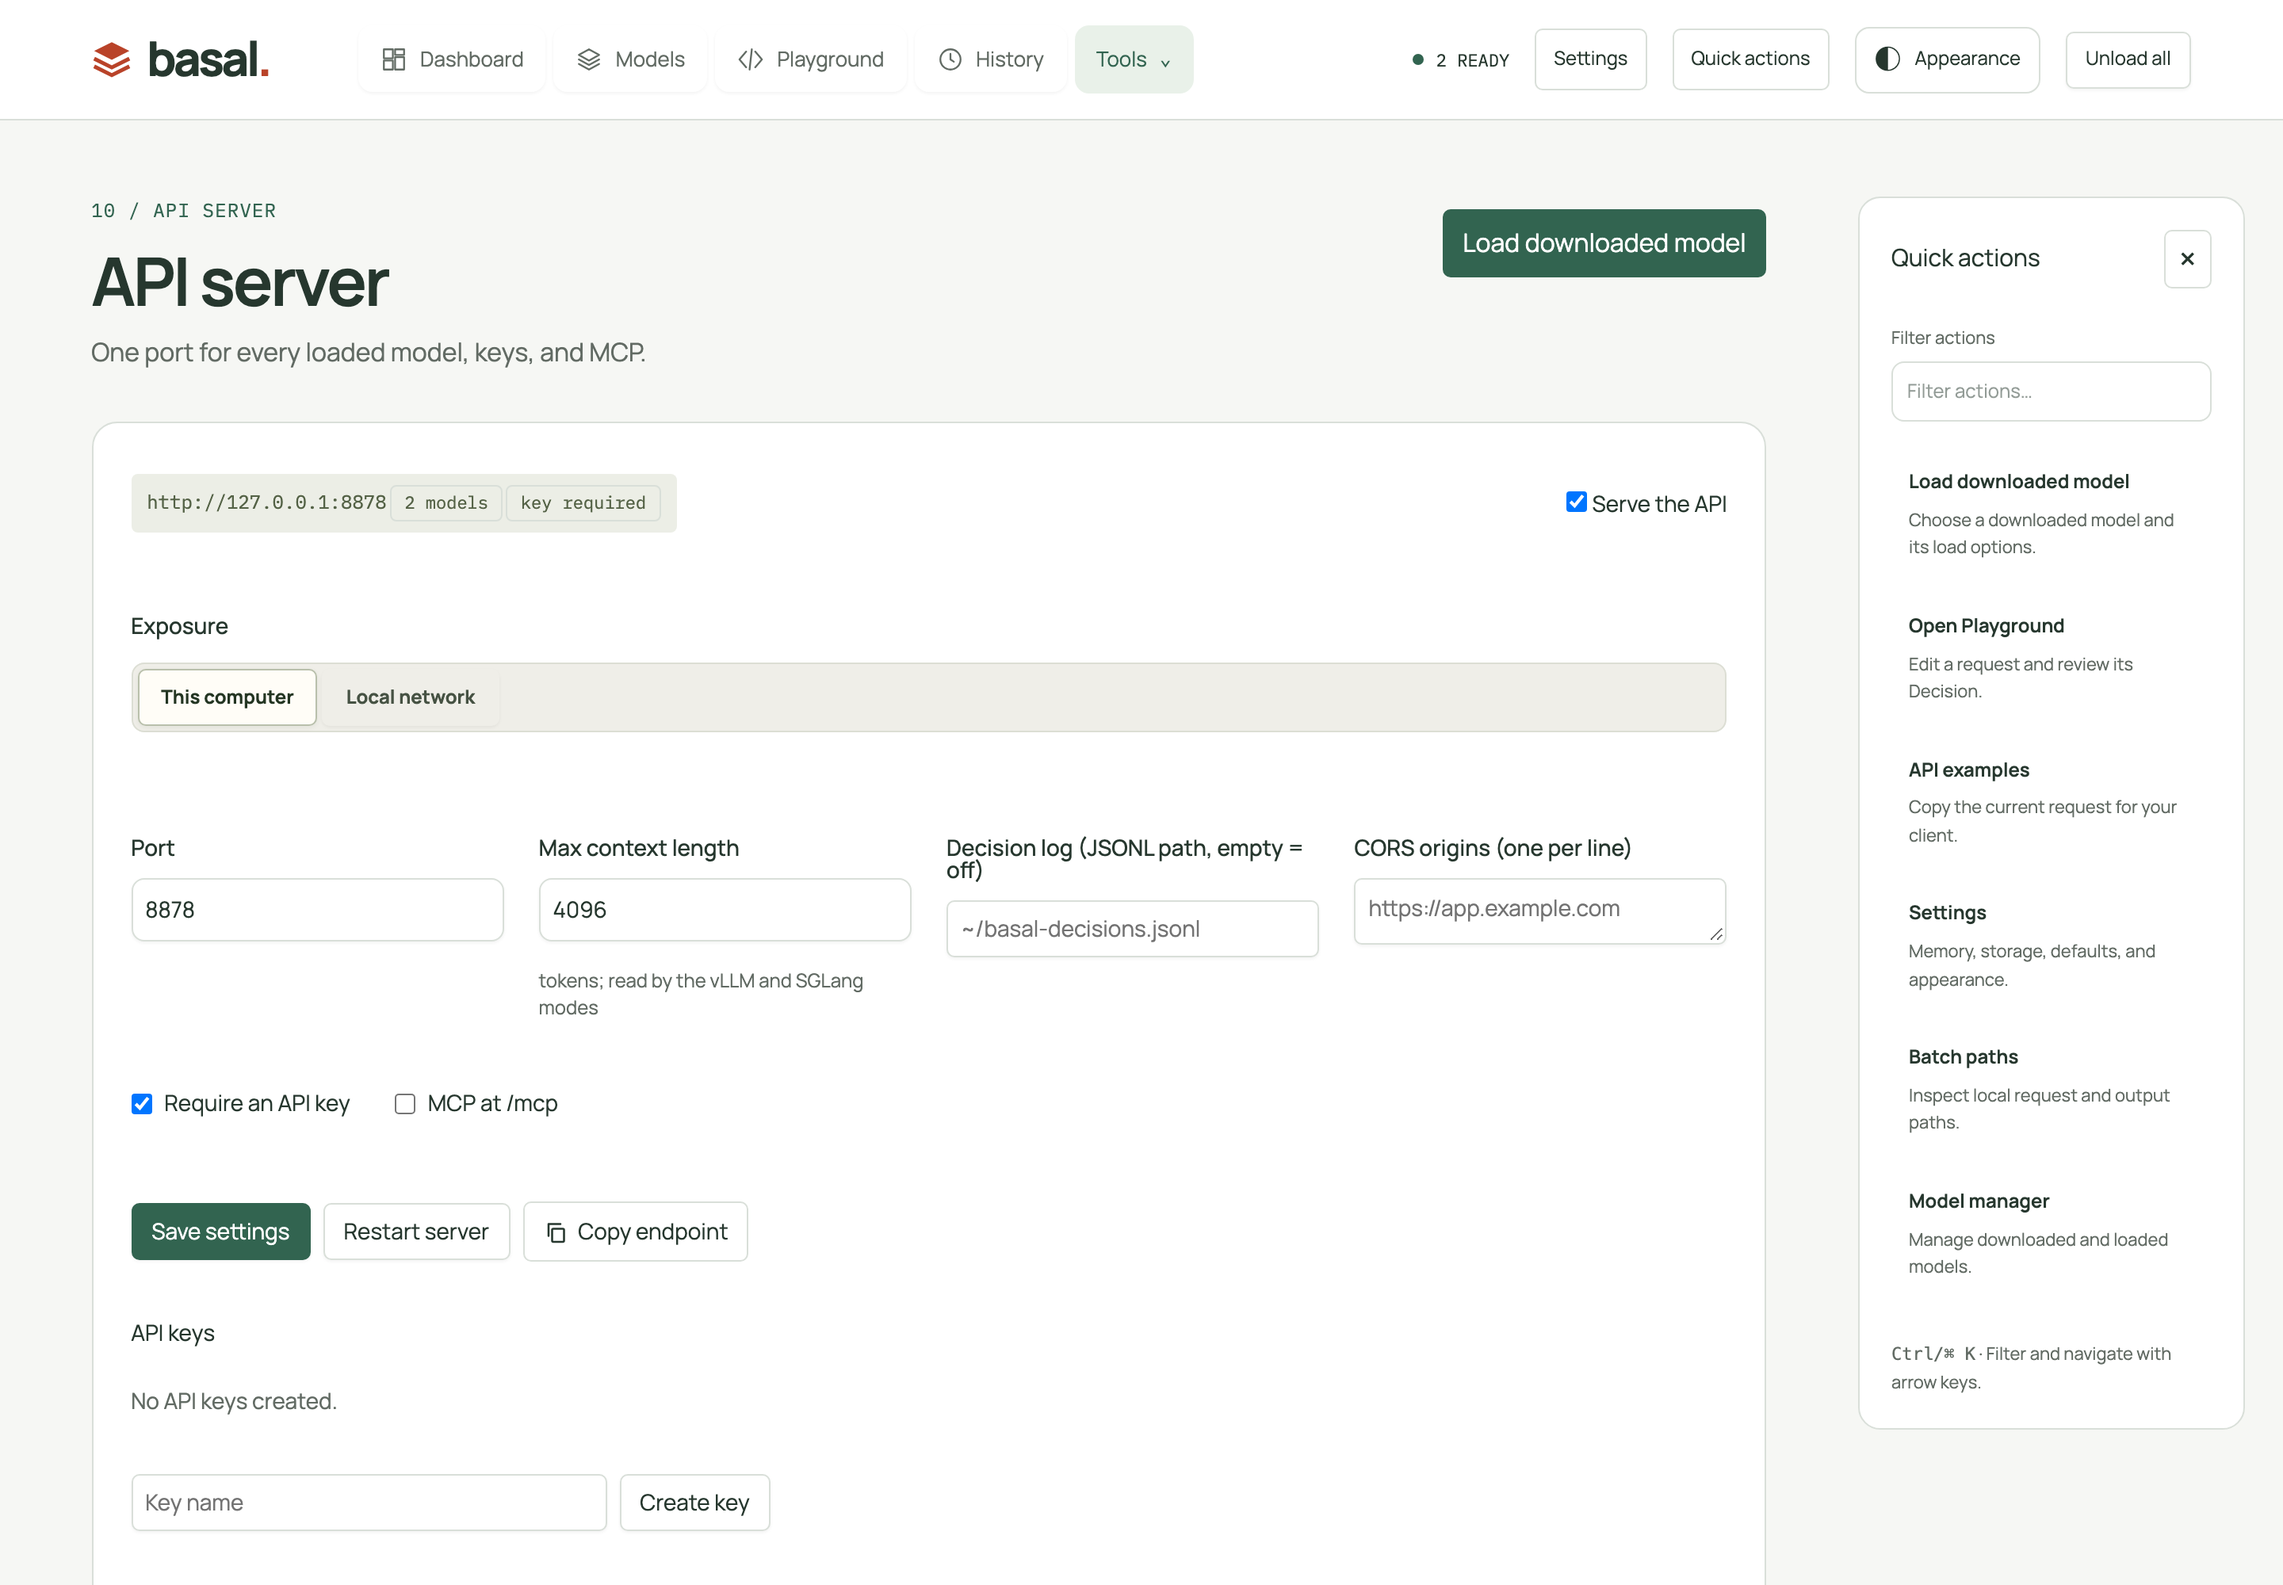
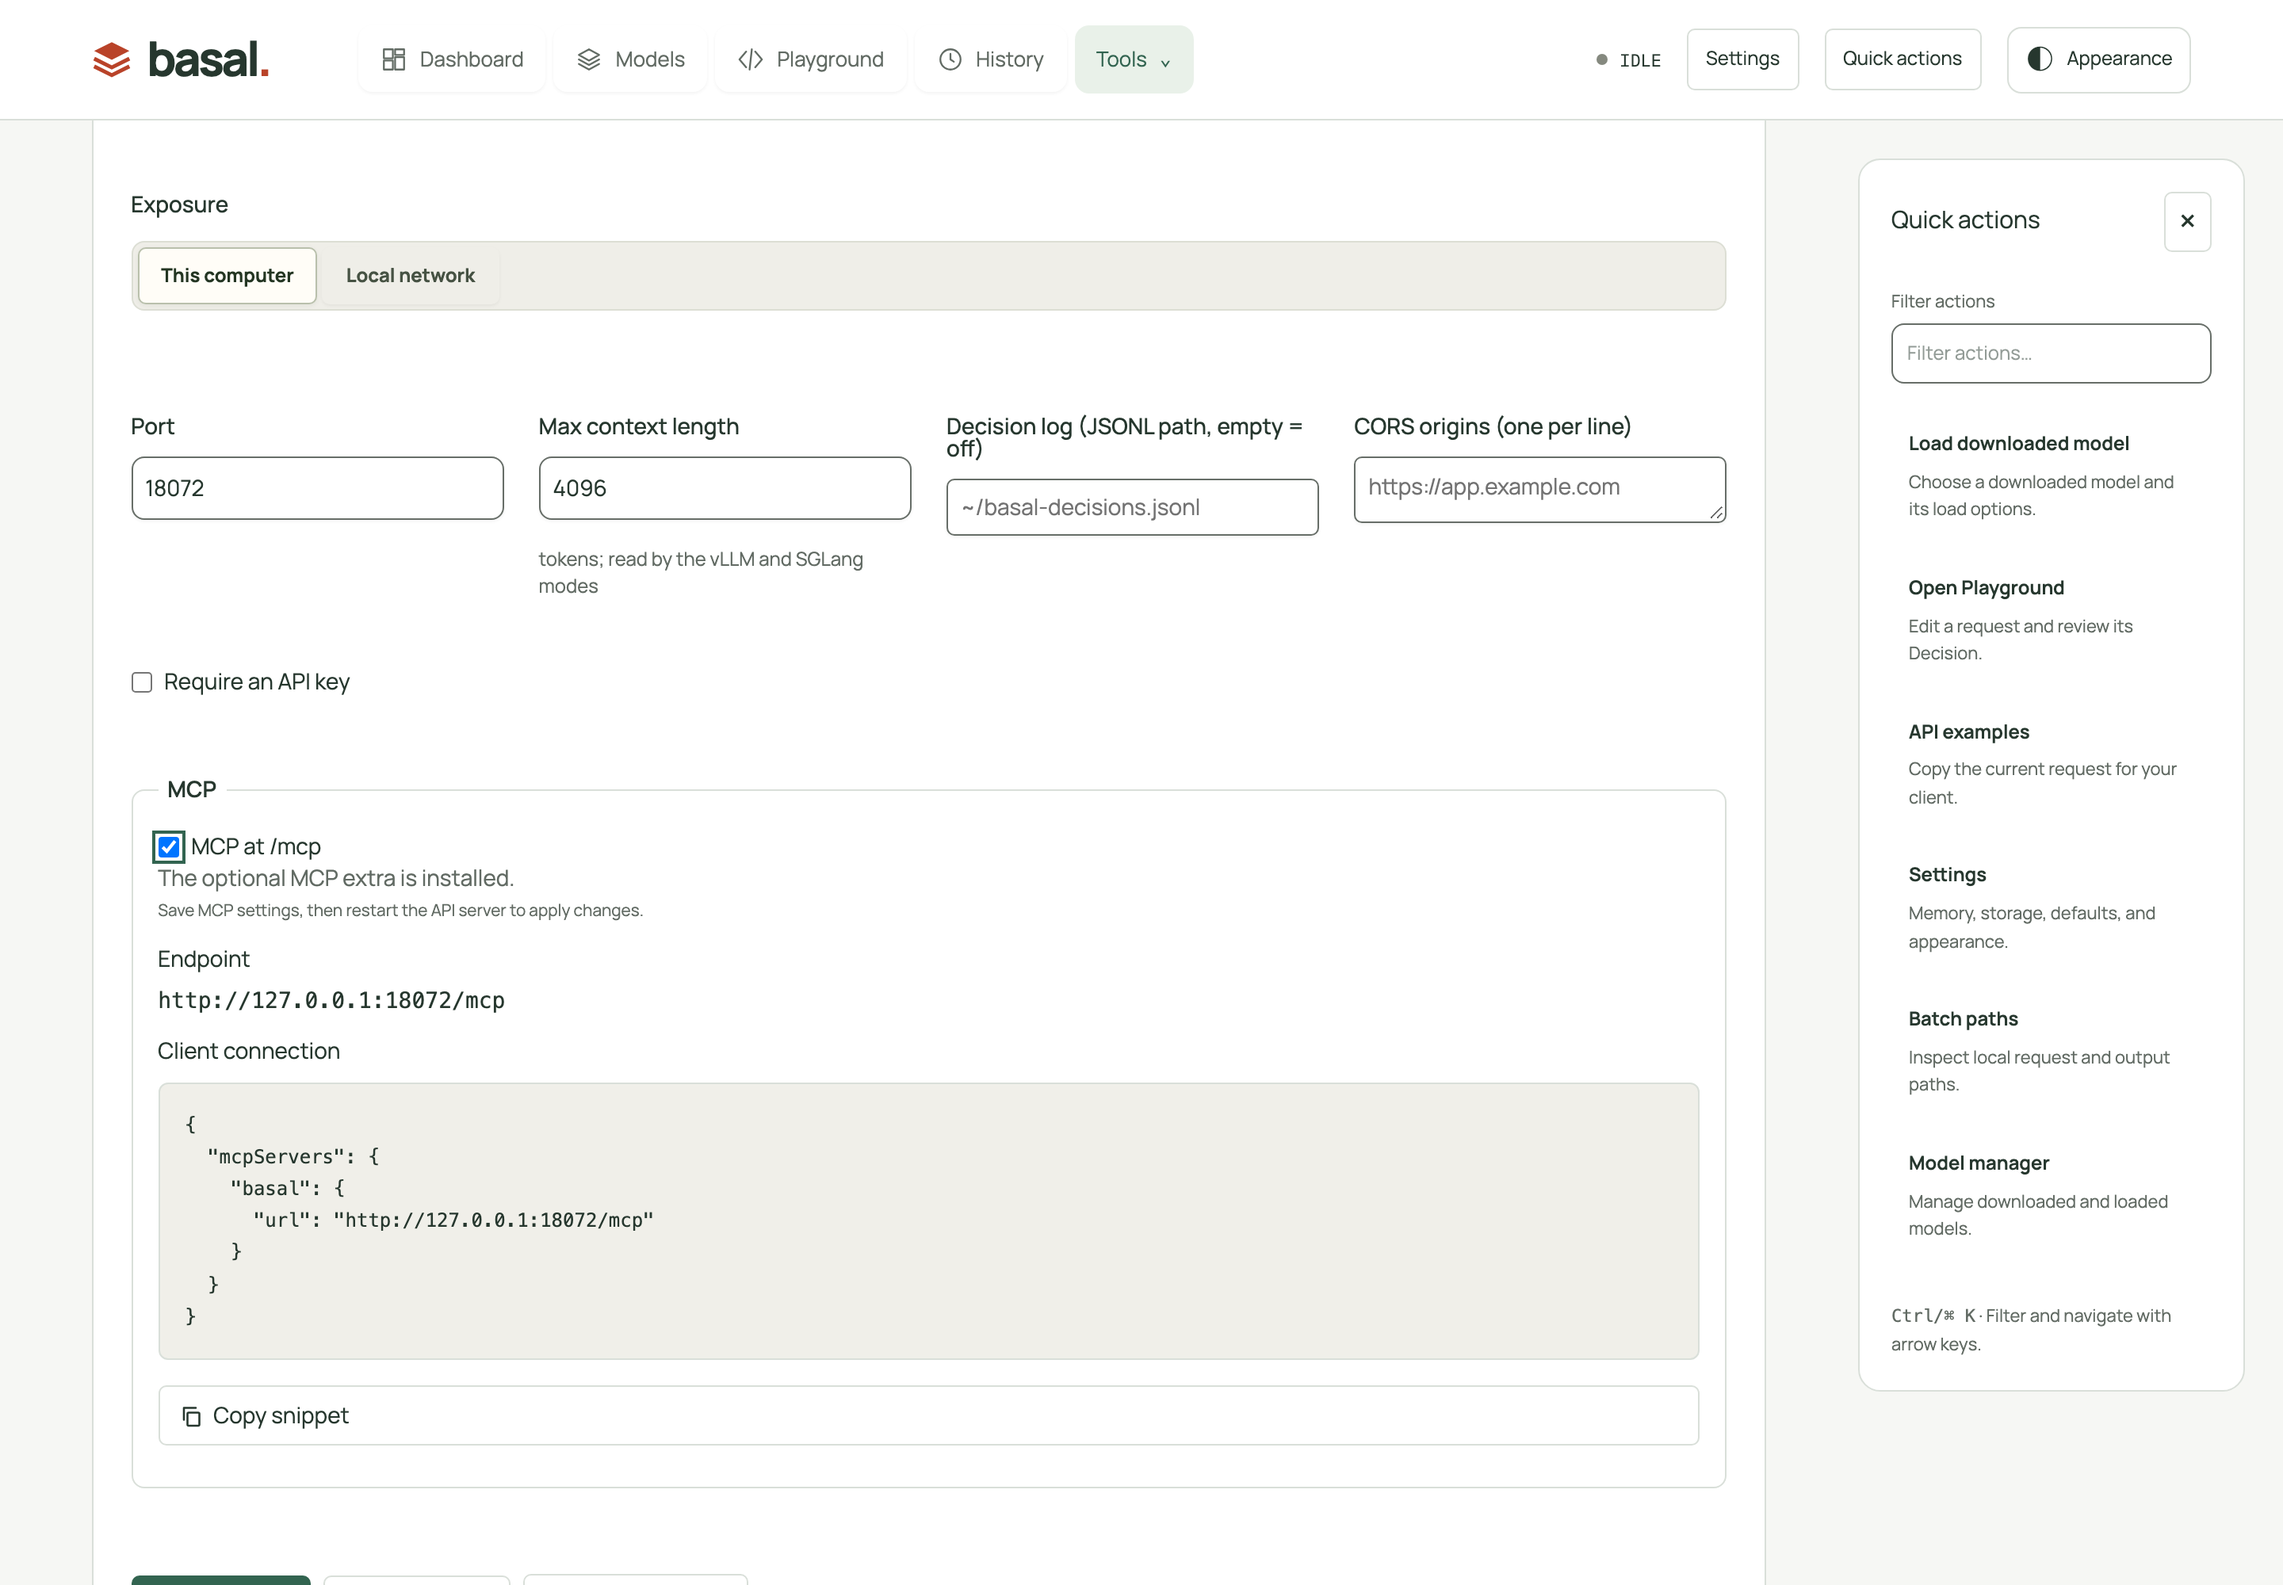
feat(api-server): group MCP settings, availability and connection details
Put the MCP at /mcp setting, optional-extra availability, endpoint URL and
client snippet in one API server group. A missing extra disables the
control with an install hint at the control. Refs #149.

diff --git a/basal_ui/static/app.js b/basal_ui/static/app.js
@@ -8,6 +8,18 @@ let trafficData=null, trafficError=null, trafficMinutes=15, trafficGeneration=0,
 let sourceUrl=null, fetchInfo=null, replayLocked=false, fetchOperation=null, fetchGeneration=0, applyingFetch=false;
 let serveData=null, serveHost='127.0.0.1', statusCache=null, connectTab='curl';
 let selectedModel=localStorage.getItem('basal-ui.model')||'', previousDownloads=new Set(), rowsSignature='', playgroundSignature='';
+const mcpGroup=document.createElement('fieldset');
+mcpGroup.className='mcp-settings';
+ mcpGroup.innerHTML=`<legend>${t('MCP')}</legend><div class="mcp-setting"></div><p id="mcpAvailability" class="muted" role="status"></p><div class="mcp-hint"></div><div class="field"><span>${t('Endpoint')}</span><code id="mcpEndpoint"></code></div><div class="field" id="mcpClient"><span>${t('Client connection')}</span><pre><code id="connectMcp"></code></pre><div class="mcp-connect-hint"></div><button id="copyMcpConnect" class="btn ghost icon-button" type="button" data-variant="outline">${t('Copy snippet')}</button></div>`;
+$('.serve-actions').before(mcpGroup);
+const mcpSetting=$('#serveMcp').closest('label');
+mcpGroup.querySelector('.mcp-setting').append(mcpSetting);
+mcpSetting.querySelector('input').setAttribute('aria-describedby','mcpHint');
+mcpGroup.querySelector('.mcp-hint').append($('#mcpHint'));
+mcpGroup.querySelectorAll('.field')[1].querySelector('pre code').replaceWith($('#connectMcp'));
+mcpGroup.querySelector('.mcp-connect-hint').append($('#mcpConnectHint'));
+$('#connectTabs [data-connect="mcp"]').remove();
+$('[data-connect-panel="mcp"]').remove();
 let rankAvailable=false;
 function httpFailure(status,message,code) {
   const hint={422:t('Invalid request: revise the input.'),503:code==='OVERLOADED'?t('Model is busy. Wait and retry.'):t('Service unavailable: if GPU memory is exhausted, shorten the input or unload another model before retrying manually.'),500:t('Internal server error: inspect model logs and request ID.')}[status];
@@ -1701,16 +1713,21 @@ decision = client.decisions.create(
       model: hosted_vllm/${name}
       api_base: ${endpoint}
       api_key: ${key||'local'}`,
-    mcp:mcpHttp,
   };
   $('#connectCurl').textContent=snippets.curl;
   $('#connectPython').textContent=snippets.python;
   $('#connectTypesafe').textContent=snippets.typesafe;
   $('#connectOpenai').textContent=snippets.openai;
   $('#connectLitellm').textContent=snippets.litellm;
-  $('#connectMcp').textContent=snippets.mcp;
-  $('#mcpConnectHint').hidden=Boolean(mcpHttp);
-  $('#copyServeConnect').disabled=connectTab==='mcp'&&!mcpHttp;
+  $('#connectMcp').textContent=mcpHttp;
+  $('#mcpEndpoint').textContent=`${endpoint}/mcp`;
+  $('#mcpAvailability').textContent=serveData.mcp_available?t('The optional MCP extra is installed.'):t('The optional MCP extra is missing.');
+  $('#mcpHint').textContent=serveData.mcp_available?t('Save MCP settings, then restart the API server to apply changes.'):t('Install the optional MCP extra with uv sync --extra mcp, then restart basal-ui.');
+  $('#mcpClient').hidden=!serveData.mcp_available;
+  $('#mcpConnectHint').textContent=mcpHttp?'':t('Start the API server with MCP enabled to use this example.');
+  $('#mcpConnectHint').hidden=!serveData.mcp_available||Boolean(mcpHttp);
+  $('#copyMcpConnect').disabled=!mcpHttp;
+  $('#copyServeConnect').disabled=false;
   $('#runningServerNote').hidden=!statusCache?.serving?.restart_required;
   $('#connectTabs').querySelectorAll('[data-connect]').forEach(tab=>{
     const active=tab.dataset.connect===connectTab;
@@ -1795,6 +1812,7 @@ async function copyText(text, success=t('Copied to clipboard')) {
 }
 $('#copyServeUrl').onclick=()=>copyText(connectionEndpoint(),t('Endpoint copied'));
 $('#copyServeConnect').onclick=()=>copyText($(`[data-connect-panel="${connectTab}"] code`).textContent,t('Snippet copied'));
+$('#copyMcpConnect').onclick=()=>copyText($('#connectMcp').textContent,t('Snippet copied'));
 // Several models: status rows, memory bar, statistics, benchmarks, History and Logs views.
 let statsData={models:{},benchmarks:{}}, statsSignature='', benchSignature='', benchRunning=false;
 let historyAfter=null, historyBefore=null, historySource='', historyTimer=null, historyDebounce=null, historyRows=new Map(), historyBrowsingOlder=false;

diff --git a/basal_ui/static/app.css b/basal_ui/static/app.css
@@ -70,6 +70,9 @@
 .directory-row{display:flex;align-items:end;gap:10px;flex-wrap:wrap}.directory-row>div:first-child{flex:1 1 320px}.directory-row input{width:100%}.directory-hint{font:11px/1.5 var(--mono);overflow-wrap:anywhere;margin-top:7px}.manager-error{margin-top:8px}.disk-list{margin-top:18px}.disk-row{display:flex;align-items:center;justify-content:space-between;gap:12px;padding:9px 0;border-bottom:1px solid var(--line)}.disk-row:last-child{border-bottom:0}.disk-info{display:flex;align-items:center;gap:8px;flex-wrap:wrap}.disk-total{font:11px/1.5 var(--mono);color:var(--muted);text-align:end;margin-top:8px}
 @media(max-width:520px){.disk-row{align-items:stretch;flex-direction:column}.disk-row .disk-info{width:100%;min-width:100px}.disk-row .disk-actions{justify-content:flex-start}}
 .serve-status{display:flex;align-items:center;justify-content:space-between;gap:8px;flex-wrap:wrap;margin:8px 0 18px}.serve-status-text{display:inline-flex;align-items:center;gap:8px;flex-wrap:wrap}.serve-fields{display:grid;grid-template-columns:repeat(auto-fit,minmax(220px,1fr));gap:14px 22px;align-items:start;margin:14px 0}.serve-fields>.field{margin:0}.serve-fields input,.serve-fields textarea{width:100%}.serve-fields textarea{min-height:42px;height:42px}.serve-fields small{display:block;margin-top:4px;font-size:12px}.serve-options{display:flex;flex-wrap:wrap;gap:10px 28px;margin:4px 0 6px}.serve-options label{display:flex;align-items:center;gap:8px;font-size:14px}.serve-options small{flex-basis:100%;font-size:12px}.serve-actions,.key-create{display:flex;gap:8px;align-items:center;flex-wrap:wrap;margin:12px 0}.key-create input{max-width:300px}.key-secret{margin:12px 0}.connect-tabs{max-width:100%;overflow-x:auto}.connect-panel pre{white-space:pre-wrap;overflow-wrap:anywhere;padding:16px;background:var(--code-surface);border:1px solid var(--line);border-radius:6px;font:12px/1.6 var(--mono)}#serveKeys .disk-row button{flex:none}
+.mcp-settings{min-width:0;margin:18px 0;padding:16px;border:1px solid var(--line);border-radius:8px}.mcp-settings legend{padding:0 6px;font-weight:600}.mcp-settings .mcp-setting label{display:flex;align-items:center;gap:8px;font-size:14px}.mcp-settings .field{display:grid;gap:6px;margin-top:12px;min-width:0}.mcp-settings code{overflow-wrap:anywhere}.mcp-settings pre{min-width:0;max-width:100%;margin:4px 0}.mcp-settings .mcp-hint{font-size:13px}
+.mcp-settings pre{white-space:pre-wrap;overflow-wrap:anywhere;padding:16px;background:var(--code-surface);border:1px solid var(--line);border-radius:6px;font:12px/1.6 var(--mono)}
+.mcp-settings .field[hidden]{display:none}
 .mono{font-family:var(--mono);overflow-wrap:anywhere}
 .prob.winner .bar span{background:var(--accent)}
 [hidden]{display:none!important}

diff --git a/basal_ui/static/i18n.js b/basal_ui/static/i18n.js
@@ -702,8 +702,14 @@ const PL = {
   "Edit options in Mark elements.": "Edytuj opcje w funkcji Oznacz elementy.",
   "Element box editor": "Edytor pól elementów",
   "Element probabilities over {name}": "Prawdopodobieństwa elementów na {name}",
-  "Endpoint": "Endpoint",
+  "Endpoint": "Adres endpointu",
   "Endpoint copied": "Skopiowano adres",
+  "The optional MCP extra is installed.": "Opcjonalny dodatek MCP jest zainstalowany.",
+  "The optional MCP extra is missing.": "Opcjonalny dodatek MCP nie jest zainstalowany.",
+  "Save MCP settings, then restart the API server to apply changes.": "Zapisz ustawienia MCP, a następnie uruchom ponownie serwer API, aby je zastosować.",
+  "Install the optional MCP extra with uv sync --extra mcp, then restart basal-ui.": "Zainstaluj opcjonalny dodatek MCP poleceniem uv sync --extra mcp, a następnie uruchom ponownie basal-ui.",
+  "Start the API server with MCP enabled to use this example.": "Aby użyć tego przykładu, uruchom serwer API z włączonym MCP.",
+  "Client connection": "Połączenie klienta",
   "Endpoint traffic": "Ruch według endpointów",
   "Engine": "Silnik",
   "Engine add-on installation": "Instalacja dodatku Engine",

diff --git a/docs/USAGE.md b/docs/USAGE.md
@@ -561,7 +561,7 @@ the statistics above (admin key only when keys are required — that is, basal-u
 | Max context length | `4096` | Passed to each vLLM and SGLang `basal-serve` (`512`–`131072`). |
 | CORS origins | Empty | Optional allowed browser origins, one per line; `*` allows every origin. |
 | Decision log | Empty (off) | Every `basal-serve` appends its decisions (propensity records) to this writable file. |
-| MCP at `/mcp` | Off | Adds the MCP streamable-HTTP endpoint when the MCP extra is installed. |
+| MCP at `/mcp` | Off | Adds the MCP streamable-HTTP endpoint when the optional MCP extra is installed. The API server's MCP group shows availability, endpoint URL and the client connection snippet. If the extra is missing, the checkbox is disabled with installation guidance. |
 
 **Security.** The server is loopback-only by default. Local-network exposure is unauthenticated unless **Require an API
 key** is enabled; use a key before selecting **Local network**. Keys are generated with the `bsl_` prefix, stored as
@@ -577,14 +577,15 @@ Library row, which reloads only that model. The app checks the chosen bind port 
 `port <port> on <host> is in use` if another process owns it.
 
 The **Connect** panel provides copy-ready examples for curl (both `/v1/systemone` and `/v1/decisions`), Python
-(httpx), TypeSafe and OpenAI SDKs, LiteLLM's `hosted_vllm` provider, and MCP. HTTP inference examples include the
-selected model's `"model"` id; when authentication is disabled they omit API-key headers. MCP configuration is
-available only while the API server is running with MCP enabled, and uses its streamable-HTTP `/mcp` endpoint.
-With Engine 2.5.0, MCP `decide` and `decide_many` take a `model` argument (`list_models` names the loaded ids) and
-answer with the first loaded model without one; with Engine 2.4.1 they always use the **first loaded model**: their
-schemas have no model argument or model-listing tool. Use the ordinary HTTP routes when you need named-model routing
-on 2.4.1. The Engine's stdio bridge needs `--model` (2.5.0) to reach the gateway, so the UI does not advertise it.
-Full request and response shapes, error envelopes and compatibility details are in the [HTTP API reference](API.md).
+(httpx), TypeSafe and OpenAI SDKs, and LiteLLM's `hosted_vllm` provider. MCP has its own group with availability,
+the `/mcp` endpoint and a client configuration snippet. The snippet is available while the API server is running with
+MCP enabled; saved settings apply after **Restart server**. HTTP inference examples include the selected model's
+`"model"` id; when authentication is disabled they omit API-key headers. With Engine 2.5.0, MCP `decide` and
+`decide_many` take a `model` argument (`list_models` names the loaded ids) and answer with the first loaded model
+without one; with Engine 2.4.1 they always use the **first loaded model**: their schemas have no model argument or
+model-listing tool. Use the ordinary HTTP routes when you need named-model routing on 2.4.1. The Engine's stdio
+bridge needs `--model` (2.5.0) to reach the gateway, so the UI does not advertise it. Full request and response shapes,
+error envelopes and compatibility details are in the [HTTP API reference](API.md).
 
 ## Serving models from basal-ui
 

diff --git a/docs/WHATS_NEW.md b/docs/WHATS_NEW.md
@@ -43,6 +43,8 @@ This release adds model orchestration, scheduled inference, and new ways to buil
 - Use API-server MCP model routing on supported Engines. Gateway forwarding preserves typed errors and Retry-After,
   reports upstream read timeouts as 504, and cancels forwarding on disconnect. The Dashboard reports stalled calls and
   lane counts. Admins can read Prometheus metrics at `/metrics`. [API reference](API.md)
+- Group the API server's MCP setting with dependency availability, the `/mcp` endpoint and a copy-ready client snippet;
+  explain how to install the optional extra when it is missing. [API server](USAGE.md#api-server)
 - Unload idle models after a configurable timeout while preserving remembered loads. Local model children start with
   detached stdin. Startup errors show a bounded log excerpt, with full output available in Logs.
 - Improve keyboard navigation, zoom, responsive layouts, hover behavior, colour contrast, and Polish localization.
